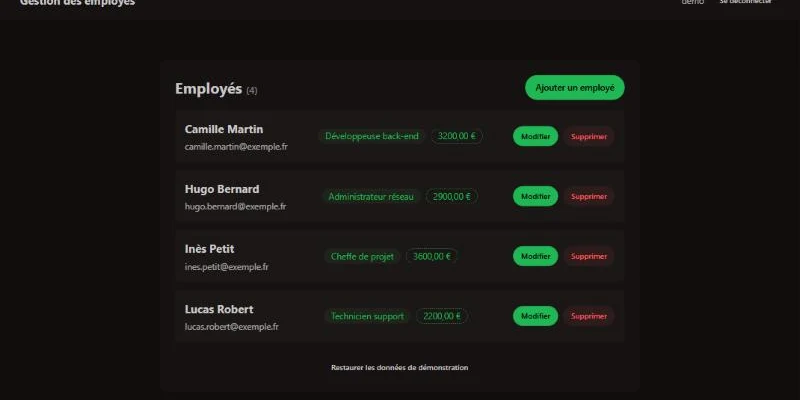
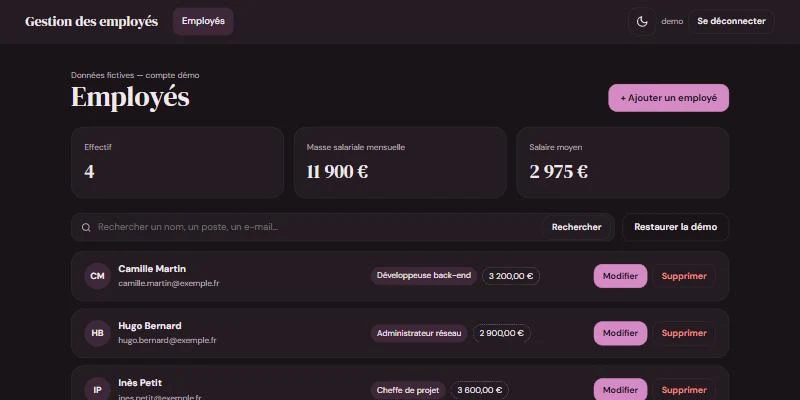
content: Gestion des employés — nouveau design, recherche, capture
Claude-Session: https://claude.ai/code/session_01TMVdoMg2tzDe2i15npkfwG

diff --git a/src/content/projects.ts b/src/content/projects.ts
@@ -158,9 +158,10 @@ export const projects: Project[] = [
       'Modèle de données avec l’ORM Django, base PostgreSQL (Neon) en production',
       'Accès réservé aux utilisateurs connectés, compte démo sans mot de passe',
       'Formulaires validés (e-mail, salaire positif) avec messages d’erreur',
+      'Recherche et chiffres clés (effectif, masse salariale, salaire moyen), mode clair/sombre',
       'Réglages sensibles par variables d’environnement, tests automatisés',
     ],
-    stack: ['Python', 'Django', 'PostgreSQL', 'Neon', 'DaisyUI', 'Vercel'],
+    stack: ['Python', 'Django', 'PostgreSQL', 'Neon', 'CSS', 'Vercel'],
     image: '/projects/gestion-employes.webp',
     links: {
       live: 'https://gestion-employes.vercel.app/',
